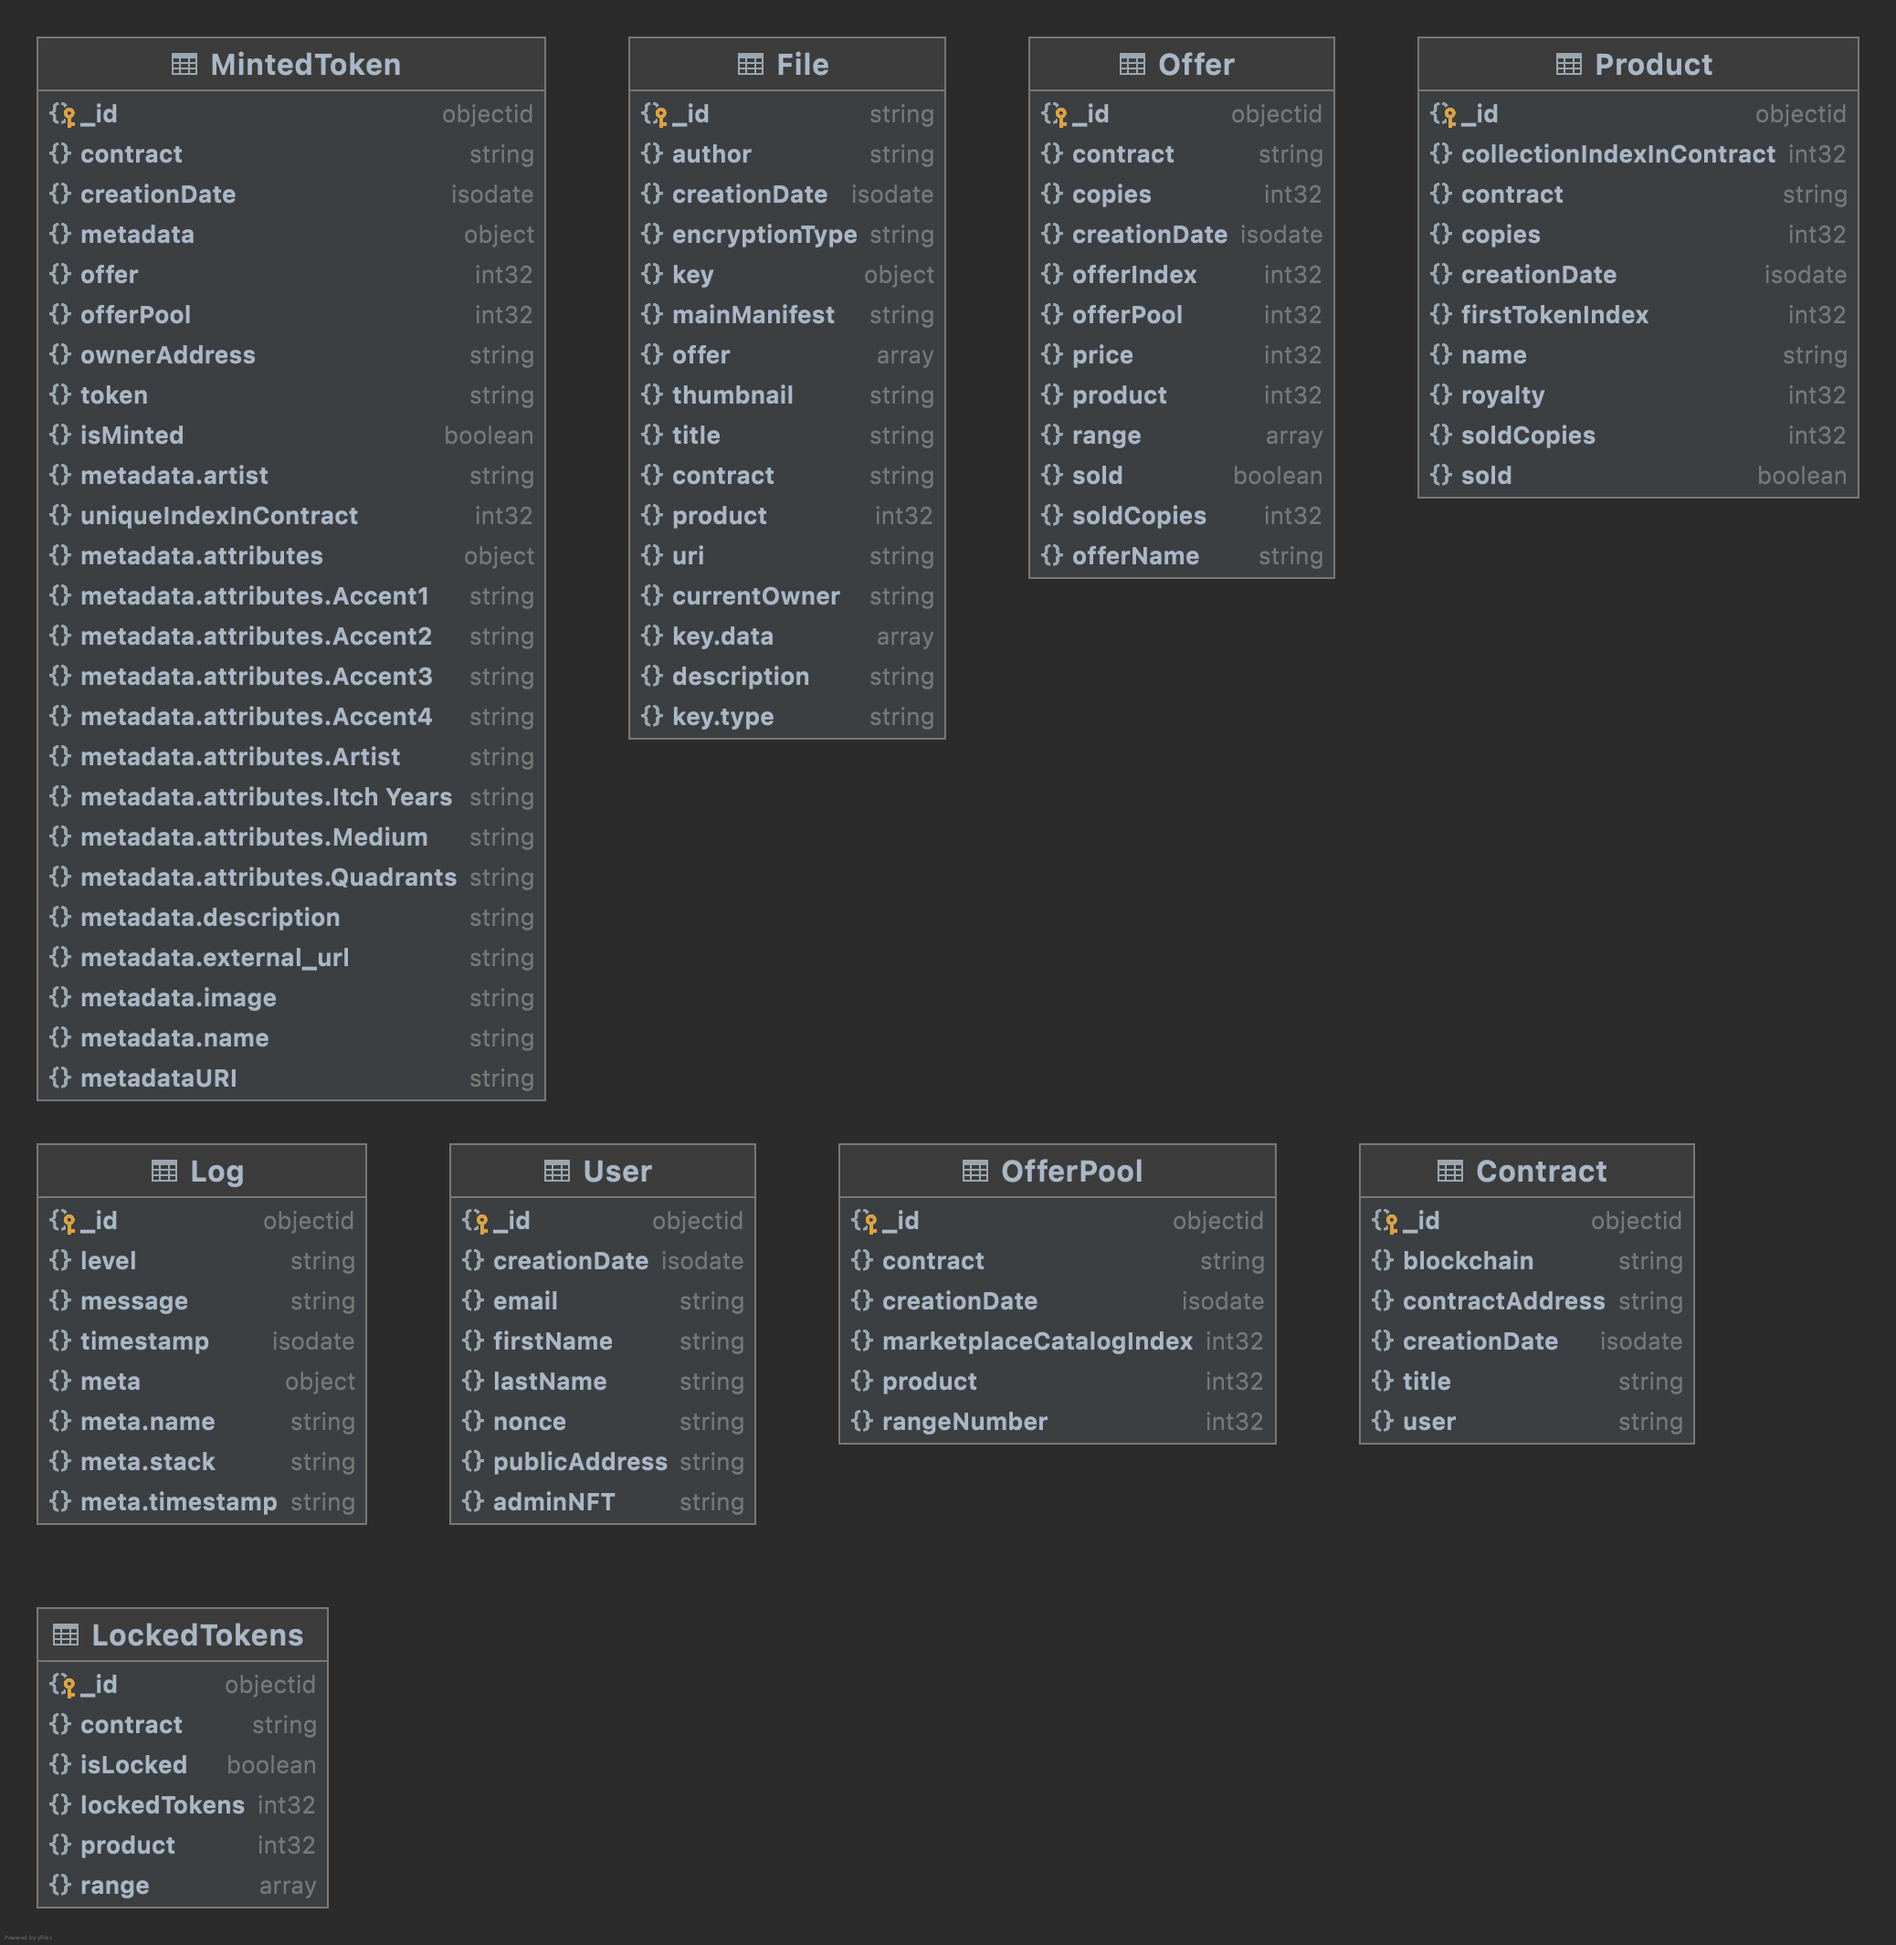
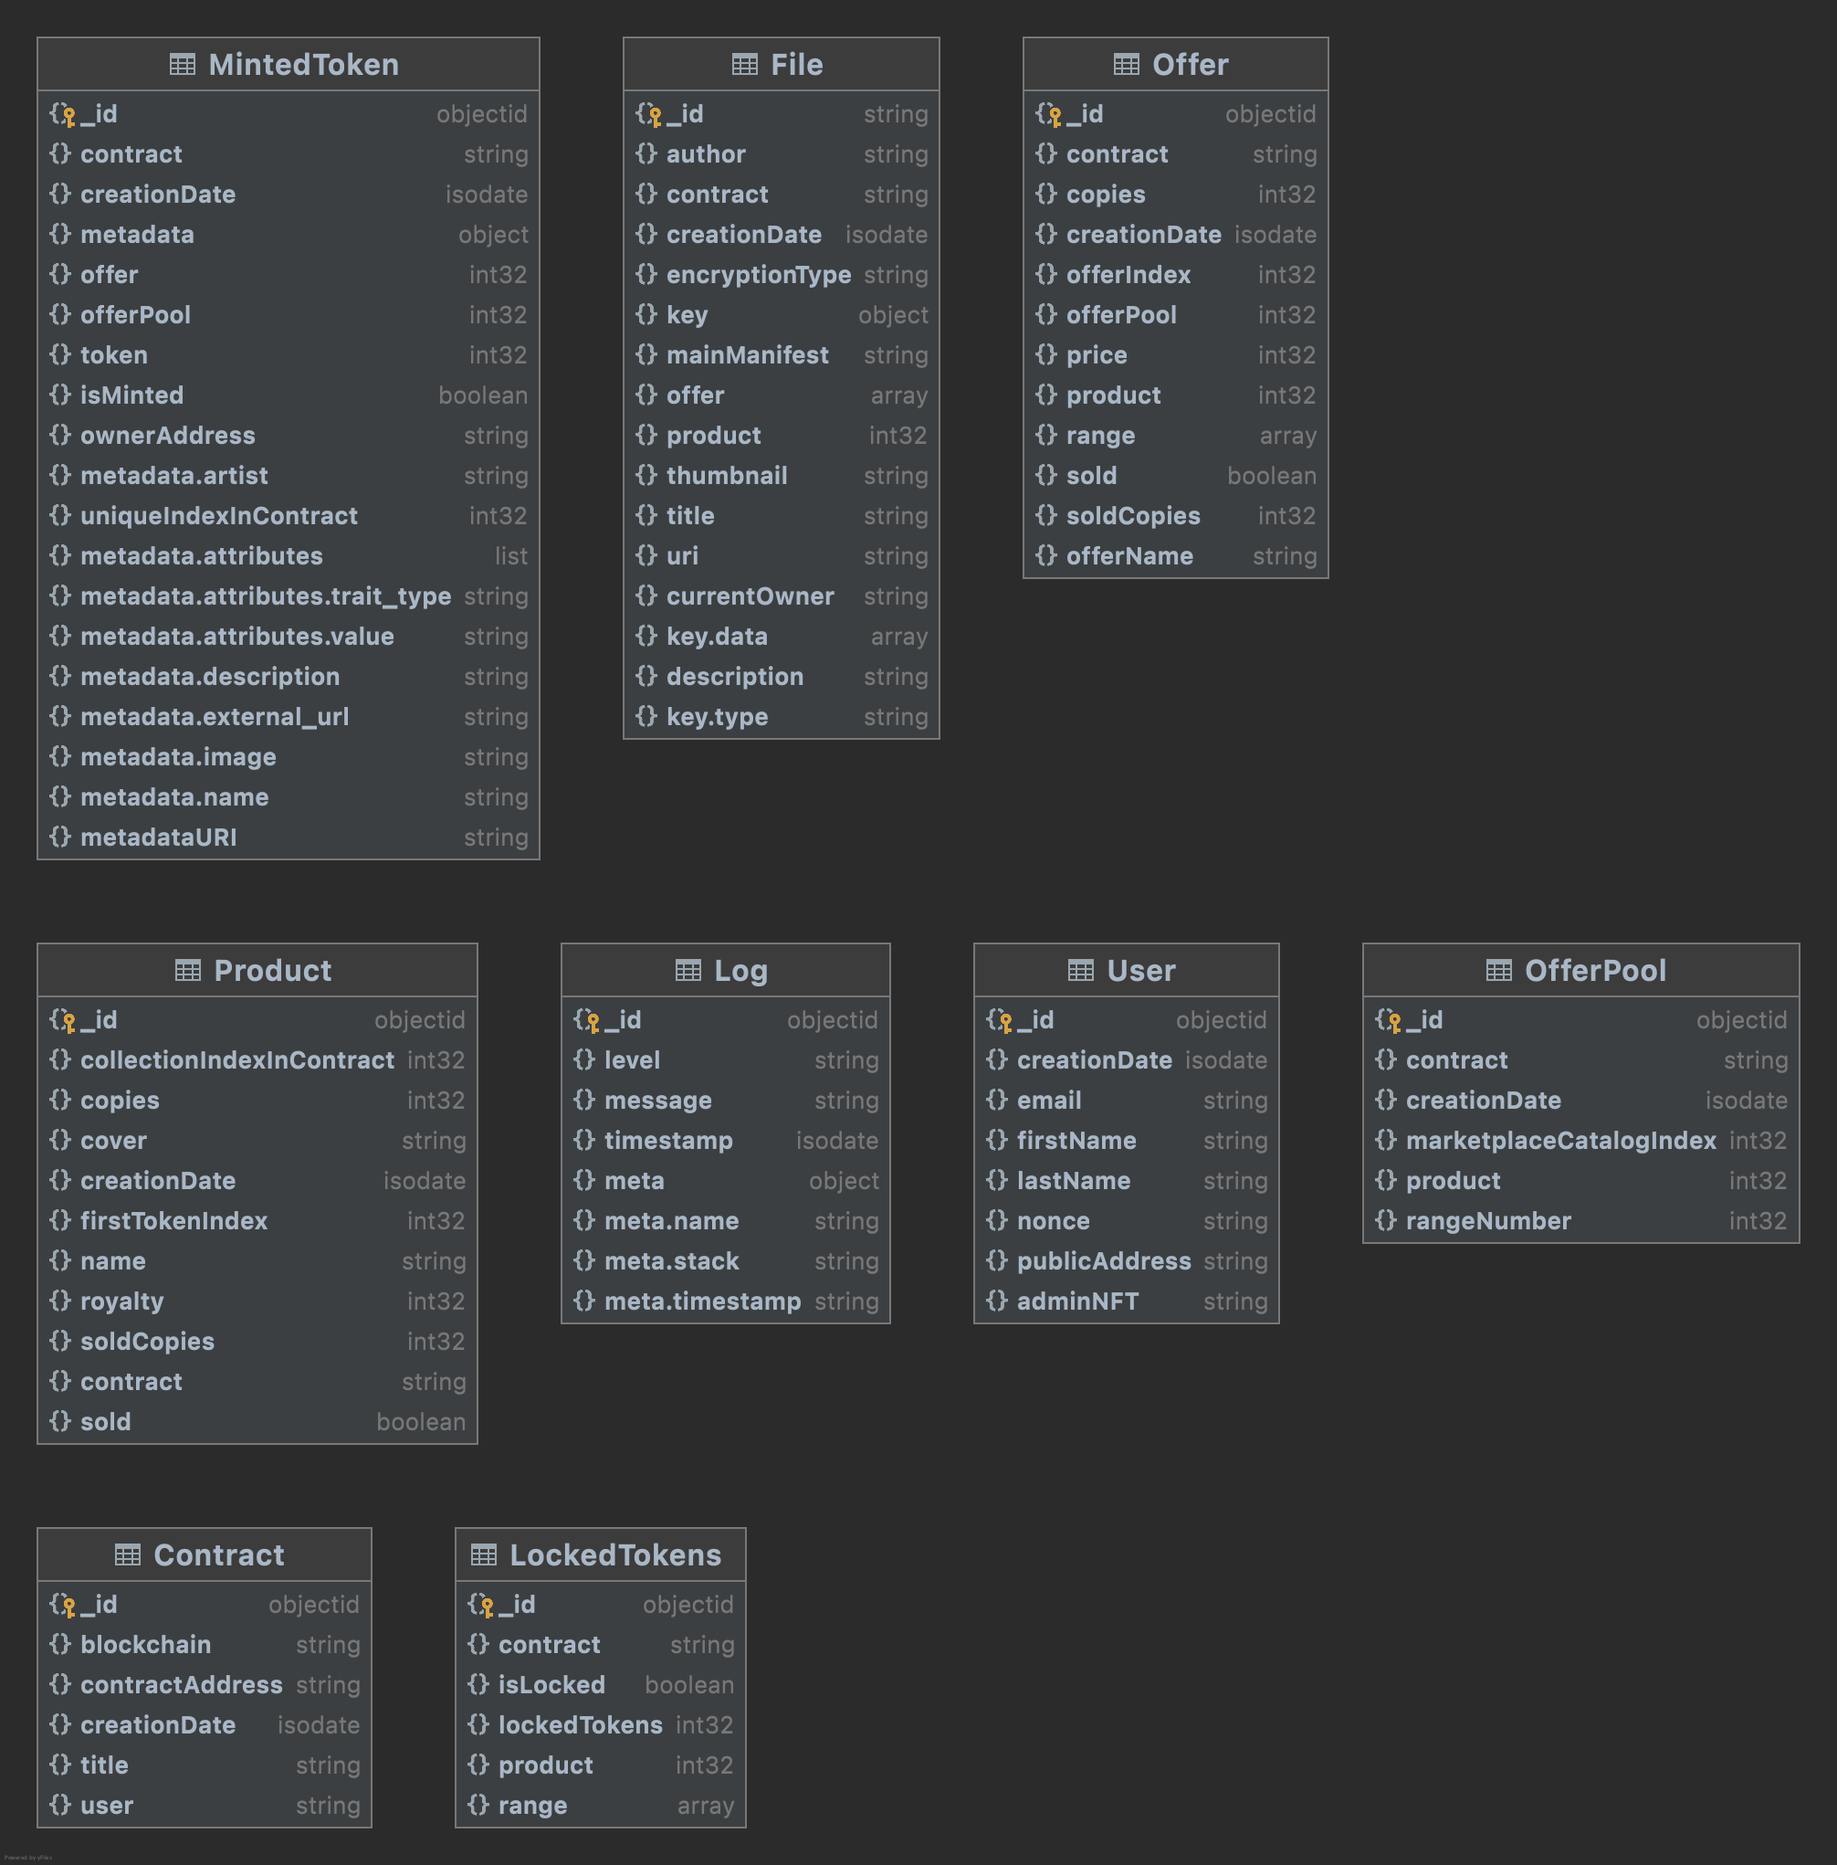
adding aasstional field to the product model; adding DB script for updating of all existing products;

diff --git a/demo-decrypt-node/bin/models/product.js b/demo-decrypt-node/bin/models/product.js
@@ -11,6 +11,7 @@ const Product = new Schema({
   sold: { type: Boolean, default: false },
   royalty: { type: Number, default: 0 },
   firstTokenIndex: { type: Number, required: true },
+  cover: { type: String, default: 'none' },
   creationDate: { type: Date, default: Date.now }
 }, { versionKey: false });
 

diff --git a/demo-decrypt-node/scripts/dev/2.2.0.mongo.js b/demo-decrypt-node/scripts/dev/2.2.0.mongo.js
@@ -1,0 +1,5 @@
+// Adding additional field "cover" for all products
+db.Product.find().toArray().forEach((item) => {
+  db.Product.findOneAndUpdate({ _id: item._id }, { $set: { cover: 'none' } });
+});
+
